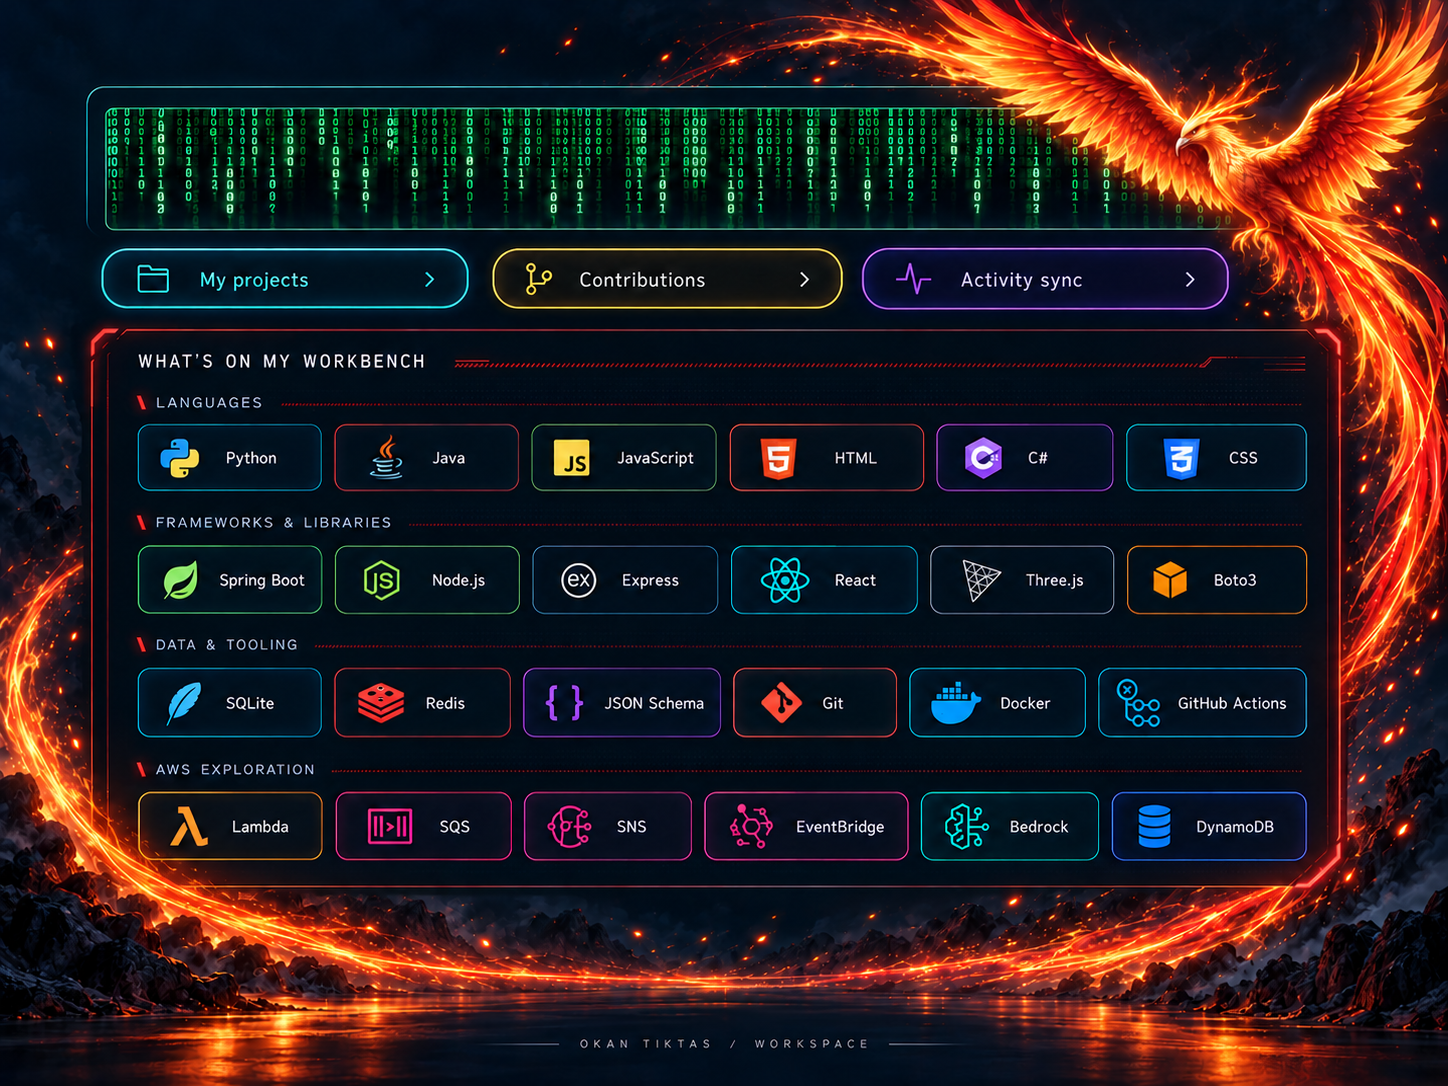
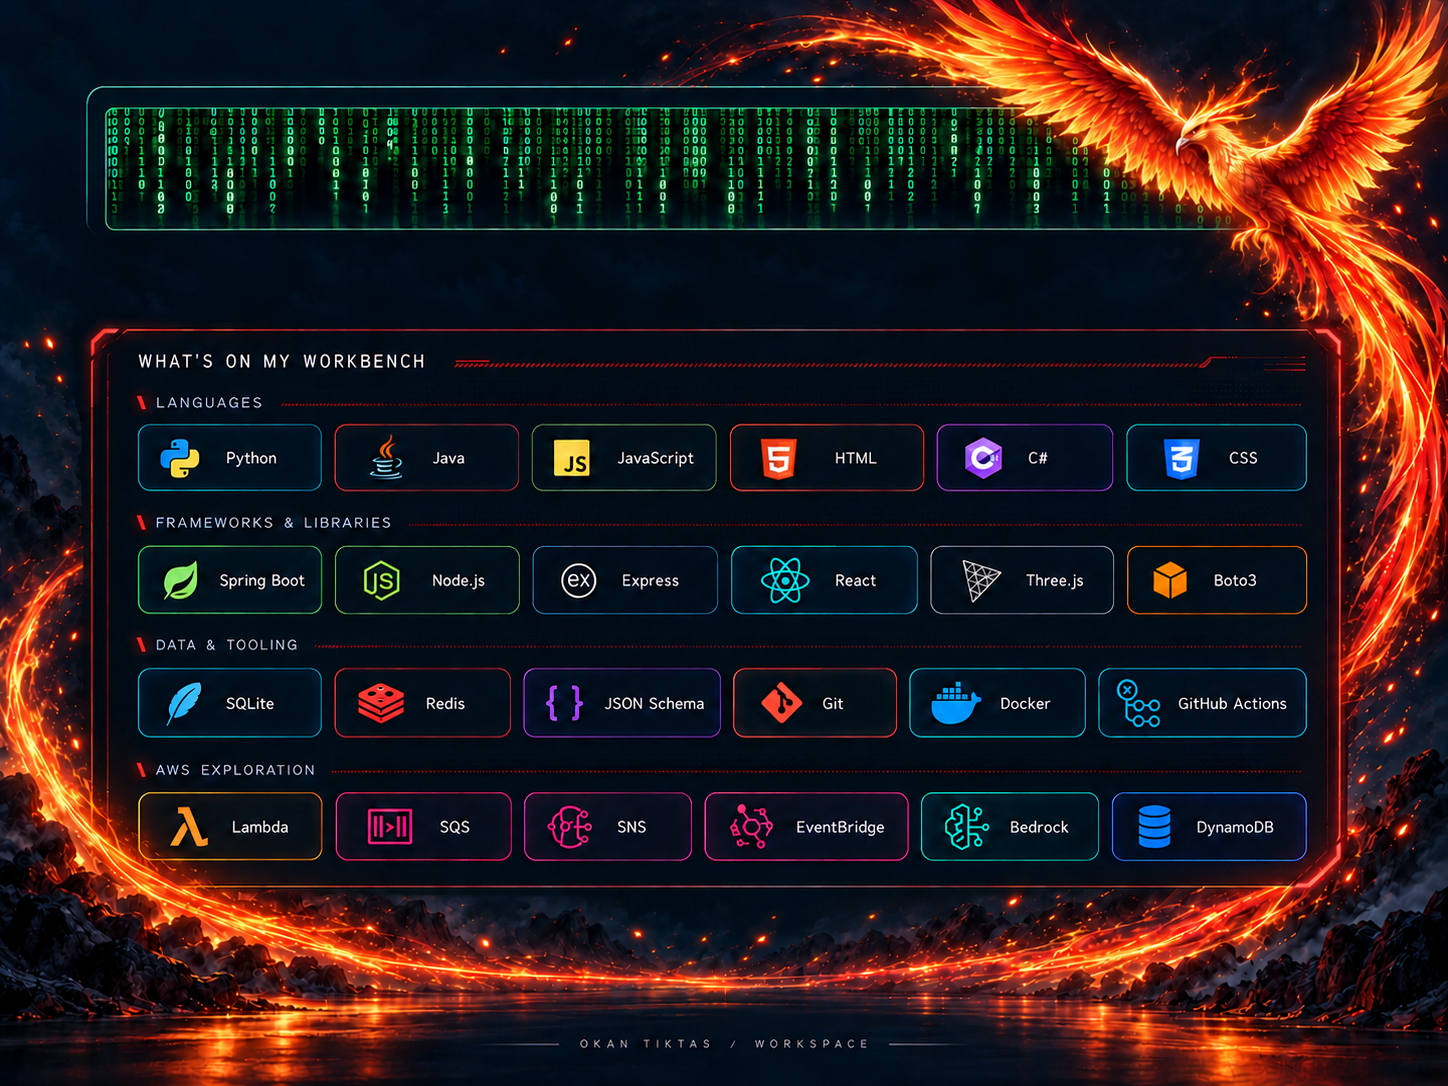
fix(profile): remove navigation from phoenix illustration

diff --git a/PROFILE.md b/PROFILE.md
@@ -61,8 +61,9 @@ Do not commit raw API bundles; the generated section and SVG are the public outp
 Keep the single `ACTIVITY:START` / `ACTIVITY:END` marker pair in `README.md`.
 Everything outside those markers stays under manual control. The approved phoenix
 and workbench illustration (`assets/phoenix-workbench.png`) appears at the top.
-It is static artwork; the illustrated buttons inside it are decorative. The real
-navigation links immediately below wrap animated GIF buttons. Contribution data
+It is static artwork without illustrated navigation buttons. The image sits inside
+a named anchor with no destination, so it is not an image-viewer or navigation link.
+The real navigation links immediately below wrap animated GIF buttons. Contribution data
 remains in the generated section, and stack details remain available as text.
 The README needs no custom CSS or JavaScript.
 

diff --git a/README.md b/README.md
@@ -1,5 +1,7 @@
 <p align="center">
+  <a name="phoenix-artwork">
   <img src="./assets/phoenix-workbench.png" width="100%" alt="Okan Tiktas’s workspace: a golden phoenix and ember trail framing a green Matrix banner and glowing badges for languages, frameworks, data tools, and AWS exploration." />
+  </a>
 </p>
 
 <p align="center">
